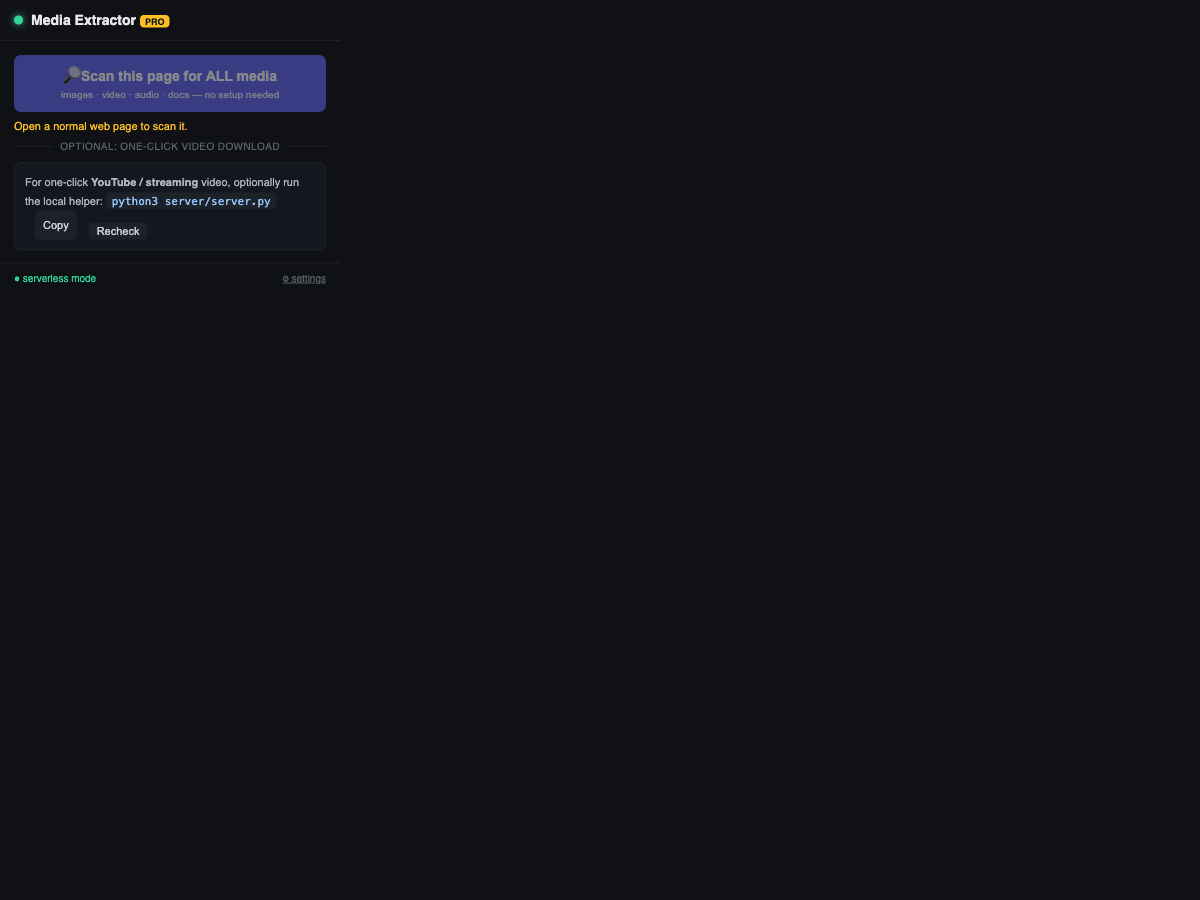
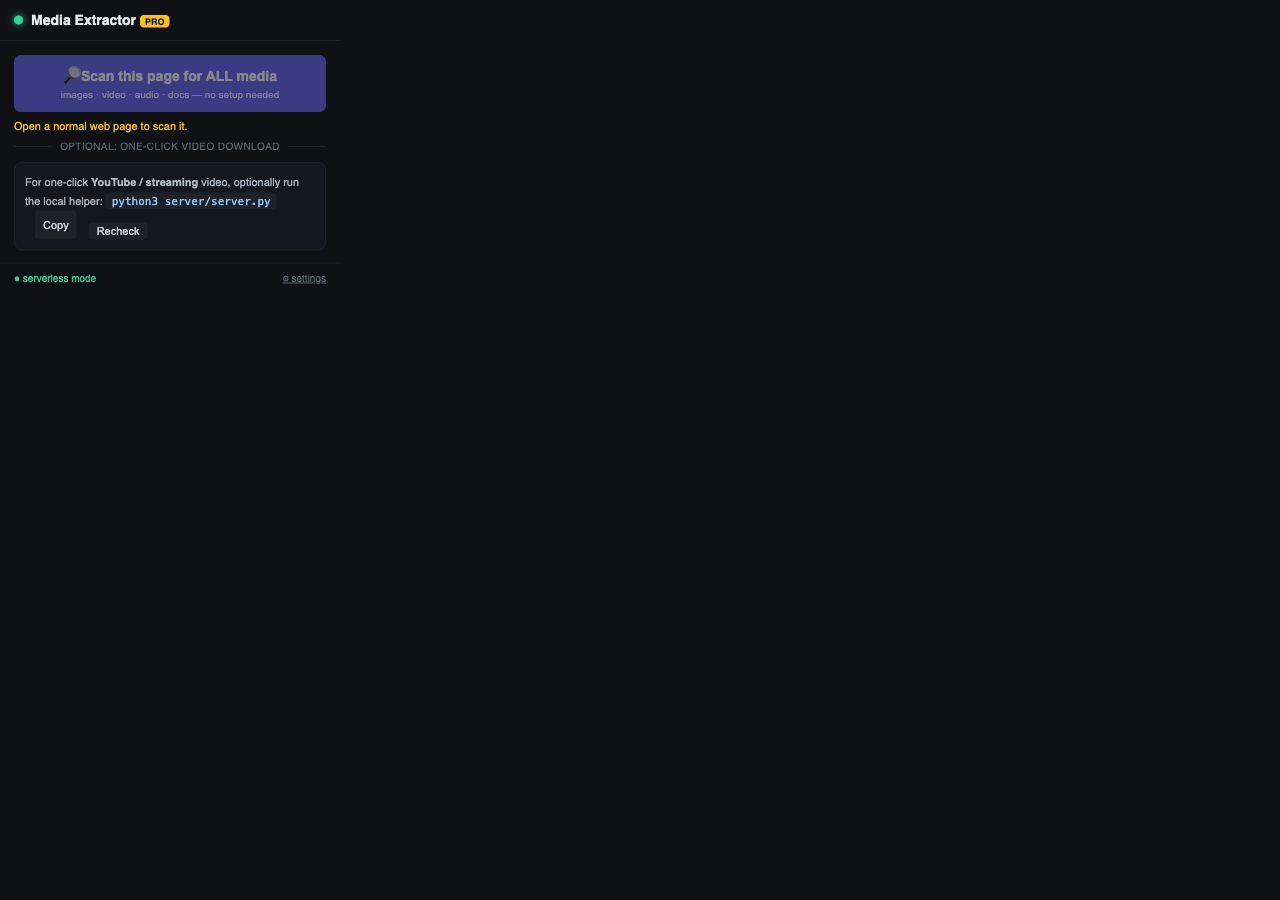
Implement All tab, sorting by name/size/type/buffer, format filters, and update documentation screenshots

Changed region(s): [[0.0, 0.0622, 0.2775, 0.3111], [0.0308, 0.0, 0.1542, 0.0311]]

diff --git a/grabber/grabber.js b/grabber/grabber.js
@@ -8,7 +8,7 @@ const tabId = parseInt(params.get('tabId'), 10);
 const pageUrlParam = params.get('url') || '';
 
 let items = [];
-let activeCat = 'video';
+let activeCat = 'all';
 const muxJobs = {}; // id -> { btn, setMsg } for in-browser HLS muxing
 
 // Progress/result from the offscreen HLS muxer
@@ -37,11 +37,15 @@ document.querySelectorAll('.tab').forEach((t) => {
     document.querySelectorAll('.tab').forEach((x) => x.classList.remove('active'));
     t.classList.add('active');
     activeCat = t.dataset.cat;
+    populateFilterDropdown();
     render();
   };
 });
 $('rescan').onclick = scan;
 $('dlAll').onclick = downloadAllInCat;
+$('filterType').onchange = render;
+$('sortBy').onchange = render;
+$('sortOrder').onchange = render;
 
 init();
 
@@ -61,6 +65,7 @@ function scan() {
     }
     items = resp.items || [];
     updateCounts();
+    populateFilterDropdown();
     const total = items.length;
     $('status').textContent = total ? `Found ${total} resource${total === 1 ? '' : 's'} on this page.` : 'No downloadable resources detected. Try playing the video, then Rescan.';
     render();
@@ -75,18 +80,90 @@ function catOf(it) {
 }
 
 function updateCounts() {
+  $('c-all').textContent = items.length;
   ['video', 'image', 'audio', 'doc'].forEach((c) => {
     $('c-' + c).textContent = items.filter((it) => catOf(it) === c).length;
   });
 }
 
+function populateFilterDropdown() {
+  const select = $('filterType');
+  const prevVal = select.value;
+  select.innerHTML = '<option value="all">All Formats</option>';
+  
+  const list = items.filter((it) => activeCat === 'all' || catOf(it) === activeCat);
+  const formats = new Set();
+  list.forEach(it => {
+    const f = it.kind === 'hls' ? 'm3u8' : it.kind === 'dash' ? 'mpd' : ext(it.url) || it.type;
+    if (f) formats.add(f.toLowerCase());
+  });
+  
+  [...formats].sort().forEach(f => {
+    const opt = document.createElement('option');
+    opt.value = f;
+    opt.textContent = f.toUpperCase();
+    select.appendChild(opt);
+  });
+  
+  if ([...select.options].some(o => o.value === prevVal)) {
+    select.value = prevVal;
+  } else {
+    select.value = 'all';
+  }
+}
+
 function render() {
   const grid = $('grid');
   grid.innerHTML = '';
-  const list = items.filter((it) => catOf(it) === activeCat);
-  $('dlAll').textContent = `⬇ Download all ${activeCat} (${list.length})`;
+  
+  let list = items.filter((it) => activeCat === 'all' || catOf(it) === activeCat);
+  
+  const filterVal = $('filterType').value;
+  if (filterVal !== 'all') {
+    list = list.filter(it => {
+      const f = it.kind === 'hls' ? 'm3u8' : it.kind === 'dash' ? 'mpd' : ext(it.url) || it.type;
+      return f.toLowerCase() === filterVal;
+    });
+  }
+  
+  const sortByVal = $('sortBy').value;
+  const sortOrderVal = $('sortOrder').value;
+  
+  if (sortByVal !== 'default') {
+    list.sort((a, b) => {
+      let valA, valB;
+      if (sortByVal === 'name') {
+        valA = fileName(a).toLowerCase();
+        valB = fileName(b).toLowerCase();
+        return valA.localeCompare(valB);
+      } else if (sortByVal === 'size') {
+        valA = a.size || 0;
+        valB = b.size || 0;
+        return valA - valB;
+      } else if (sortByVal === 'type') {
+        valA = (a.kind === 'hls' ? 'm3u8' : a.kind === 'dash' ? 'mpd' : ext(a.url) || a.type).toLowerCase();
+        valB = (b.kind === 'hls' ? 'm3u8' : b.kind === 'dash' ? 'mpd' : ext(b.url) || b.type).toLowerCase();
+        return valA.localeCompare(valB);
+      } else if (sortByVal === 'buffer') {
+        valA = (a.kind === 'hls' || a.kind === 'dash') ? 1 : 0;
+        valB = (b.kind === 'hls' || b.kind === 'dash') ? 1 : 0;
+        return valA - valB;
+      }
+      return 0;
+    });
+    
+    if (sortOrderVal === 'desc') {
+      list.reverse();
+    }
+  }
+  
+  $('dlAll').textContent = `⬇ Download all in this view (${list.length})`;
   $('dlAll').style.display = list.length ? '' : 'none';
-  if (!list.length) { grid.innerHTML = '<p class="empty">Nothing in this category.</p>'; return; }
+  
+  if (!list.length) {
+    grid.innerHTML = '<p class="empty">No matching resources found.</p>';
+    return;
+  }
   list.forEach((it) => grid.appendChild(card(it)));
 }
 
@@ -104,11 +181,15 @@ function card(it) {
   const preview = it.type === 'image'
     ? `<img class="thumb" src="${esc(downloadUrl)}" loading="lazy" referrerpolicy="no-referrer">`
     : `<div class="thumb icon">${it.type === 'audio' ? '🎵' : it.type === 'doc' ? '📄' : '🎬'}</div>`;
+  
+  const sizeText = it.size ? ` · ${fmtSize(it.size)}` : '';
+  const bufferLabel = (it.kind === 'hls' || it.kind === 'dash') ? ' · Buffered' : '';
+
   div.innerHTML = `
     ${preview}
     <div class="info">
       <div class="name" title="${esc(name)}">${esc(name)}</div>
-      <div class="sub"><span class="kbadge">${badge}</span><span class="src">${esc(it.source || 'page')}</span></div>
+      <div class="sub"><span class="kbadge">${badge}</span><span class="src">${esc(it.source || 'page')}${sizeText}${bufferLabel}</span></div>
       <div class="url" title="${esc(downloadUrl)}">${esc(downloadUrl)}</div>
     </div>
     <div class="row" style="flex-wrap: wrap; gap: 6px;">
@@ -196,12 +277,38 @@ async function downloadAllInCat() {
 function resetBtn(btn) { if (btn) { btn.disabled = false; btn.textContent = '⬇ Download'; } }
 function ext(u) { const m = (u.split('?')[0].match(/\.([a-z0-9]{2,5})$/i)); return m ? m[1].toLowerCase() : ''; }
 function fileName(it) {
+  if (it._filename) return it._filename;
+  let name = '';
   try {
     const base = decodeURIComponent(new URL(it.url).pathname.split('/').pop() || '');
-    if (base && /\.[a-z0-9]{2,5}$/i.test(base)) return base.slice(0, 180);
+    if (base && /\.[a-z0-9]{2,5}$/i.test(base)) {
+      name = base.slice(0, 180);
+    }
   } catch {}
-  const e = it.kind === 'hls' || it.kind === 'dash' ? 'mp4' : ext(it.url) || (it.type === 'image' ? 'jpg' : it.type === 'audio' ? 'mp3' : it.type === 'doc' ? 'pdf' : 'mp4');
-  return `media_${Date.now().toString().slice(-6)}.${e}`;
+  if (!name) {
+    const e = it.kind === 'hls' || it.kind === 'dash' ? 'mp4' : ext(it.url) || (it.type === 'image' ? 'jpg' : it.type === 'audio' ? 'mp3' : it.type === 'doc' ? 'pdf' : 'mp4');
+    const hash = Math.abs(hashString(it.url)).toString(36).slice(0, 6);
+    name = `media_${hash}.${e}`;
+  }
+  it._filename = name;
+  return name;
+}
+
+function hashString(str) {
+  let hash = 0;
+  for (let i = 0; i < str.length; i++) {
+    hash = (hash << 5) - hash + str.charCodeAt(i);
+    hash |= 0;
+  }
+  return hash;
+}
+
+function fmtSize(bytes) {
+  if (!bytes) return '';
+  const k = 1024;
+  const sizes = ['Bytes', 'KB', 'MB', 'GB'];
+  const i = Math.floor(Math.log(bytes) / Math.log(k));
+  return parseFloat((bytes / Math.pow(k, i)).toFixed(1)) + ' ' + sizes[i];
 }
 function esc(s) { return String(s).replace(/[&<>"]/g, (c) => ({ '&': '&amp;', '<': '&lt;', '>': '&gt;', '"': '&quot;' }[c])); }
 

diff --git a/service-worker.js b/service-worker.js
@@ -23,7 +23,7 @@ function classifyResource(url, contentType = '') {
   return null;
 }
 
-function addSniffed(tabId, url, contentType) {
+function addSniffed(tabId, url, contentType, size = 0) {
   if (tabId < 0 || !/^https?:/i.test(url)) return;
   // Skip noisy YouTube segment spam (handled elsewhere) and tiny tracking pixels
   if (url.includes('googlevideo.com/videoplayback')) return;
@@ -35,6 +35,7 @@ function addSniffed(tabId, url, contentType) {
     url, type: c.type, kind: c.kind, source: 'network',
     isVideo: c.type === 'video', isAudio: c.type === 'audio',
     mimeType: contentType || '', quality: c.kind === 'hls' ? 'HLS' : c.kind === 'dash' ? 'DASH' : '',
+    size: size || 0,
   });
   chrome.runtime.sendMessage({ type: 'MEDIA_UPDATE', tabId, data: tabMediaStore[tabId] }).catch(() => {});
 }
@@ -42,14 +43,16 @@ function addSniffed(tabId, url, contentType) {
 chrome.webRequest.onHeadersReceived.addListener(
   (details) => {
     const ctHeader = (details.responseHeaders || []).find((h) => h.name.toLowerCase() === 'content-type');
-    addSniffed(details.tabId, details.url, ctHeader ? ctHeader.value : '');
+    const lenHeader = (details.responseHeaders || []).find((h) => h.name.toLowerCase() === 'content-length');
+    const size = lenHeader ? parseInt(lenHeader.value, 10) : 0;
+    addSniffed(details.tabId, details.url, ctHeader ? ctHeader.value : '', size);
   },
   { urls: ['<all_urls>'] },
   ['responseHeaders']
 );
 // Also catch by extension before response (for direct media links / redirects)
 chrome.webRequest.onBeforeRequest.addListener(
-  (details) => { addSniffed(details.tabId, details.url, ''); },
+  (details) => { addSniffed(details.tabId, details.url, '', 0); },
   { urls: ['<all_urls>'] }
 );
 

diff --git a/grabber/grabber.html b/grabber/grabber.html
@@ -15,11 +15,38 @@
   </header>
 
   <nav class="tabs">
-    <button class="tab active" data-cat="video">🎬 Video <span id="c-video" class="badge">0</span></button>
+    <button class="tab active" data-cat="all">🌟 All <span id="c-all" class="badge">0</span></button>
+    <button class="tab" data-cat="video">🎬 Video <span id="c-video" class="badge">0</span></button>
     <button class="tab" data-cat="image">🖼 Images <span id="c-image" class="badge">0</span></button>
     <button class="tab" data-cat="audio">🎵 Audio <span id="c-audio" class="badge">0</span></button>
     <button class="tab" data-cat="doc">📄 Docs <span id="c-doc" class="badge">0</span></button>
   </nav>
+
+  <div class="controls-bar">
+    <div class="control-group">
+      <label for="filterType">Filter:</label>
+      <select id="filterType">
+        <option value="all">All Formats</option>
+      </select>
+    </div>
+    <div class="control-group">
+      <label for="sortBy">Sort By:</label>
+      <select id="sortBy">
+        <option value="default">Default</option>
+        <option value="name">Name</option>
+        <option value="size">Size</option>
+        <option value="type">Type/Extension</option>
+        <option value="buffer">Source (Buffered/Direct)</option>
+      </select>
+    </div>
+    <div class="control-group">
+      <label for="sortOrder">Order:</label>
+      <select id="sortOrder">
+        <option value="asc">Ascending</option>
+        <option value="desc">Descending</option>
+      </select>
+    </div>
+  </div>
 
   <div id="status" class="status">Scanning this page…</div>
 

diff --git a/grabber/grabber.css b/grabber/grabber.css
@@ -41,3 +41,35 @@ main { padding-bottom: 60px; }
 
 footer { position: fixed; bottom: 0; left: 0; right: 0; padding: 9px 18px; background: #0d0f13; border-top: 1px solid #1d2128; font-size: 11px; }
 .muted { color: #5b636f; } .ok { color: #34d399; } .warn { color: #fbbf24; }
+
+.controls-bar {
+  display: flex;
+  flex-wrap: wrap;
+  gap: 16px;
+  padding: 10px 18px;
+  background: #14171d;
+  border-bottom: 1px solid #1d2128;
+  align-items: center;
+}
+.control-group {
+  display: flex;
+  align-items: center;
+  gap: 8px;
+}
+.control-group label {
+  color: #8b94a3;
+  font-size: 11px;
+  font-weight: 600;
+}
+.control-group select {
+  background: #1d2128;
+  border: 1px solid #2d333f;
+  border-radius: 6px;
+  padding: 4px 8px;
+  color: #cbd2dc;
+  font-size: 11px;
+  outline: none;
+}
+.control-group select:focus {
+  border-color: #6366f1;
+}

diff --git a/README.md b/README.md
@@ -16,19 +16,12 @@ When clicked on any web page, the popup shows a quick action to launch the serve
 ![Popup UI](screenshots/popup_ui.png)
 
 ### 2. The Serverless Page Grabber
-The grabber scans the active page (including nested frames, scripts, and dynamic elements) to list all media resources. It includes automatic high-resolution upgrades for Wikimedia, Unsplash, and Pexels.
+The grabber scans the active page (including nested frames, scripts, and dynamic elements) to list all media resources. It starts in the **🌟 All** tab and allows you to dynamically filter formats (e.g. `MP4`, `M3U8`, `WEBP`) and sort items by Name, Size, Type, or Buffer source (Ascending/Descending).
 
 ![Grabber UI](screenshots/grabber_ui.png)
 
-### 3. Amazon India Product Verification
-The extension successfully extracts hidden product video files and high-res product photos from e-commerce sites like Amazon.
-
-![Amazon India Scan](screenshots/amazon_in.png)
-
-### 4. Flipkart E-Commerce Verification
-Extracts hundreds of lazy-loaded images, variant crops, and asset files from platforms like Flipkart.
-
-![Flipkart Scan](screenshots/flipkart_com.png)
+### 3. High-Resolution & Stream Sniffing
+The extension intercepts dynamic network requests and parses HLS variants directly inside your browser. It includes automatic high-resolution/original image cleaners for platforms like Unsplash, Pexels, and Wikimedia.
 
 ---
 
